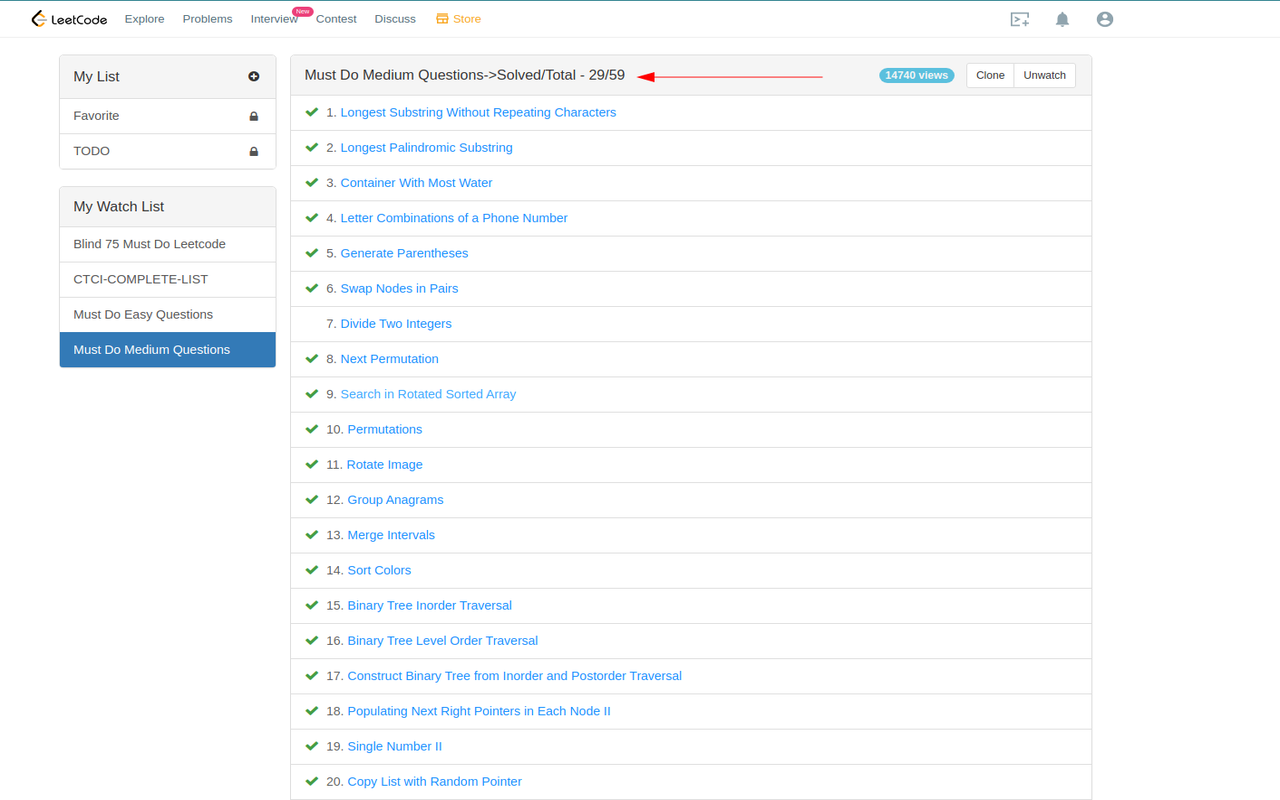
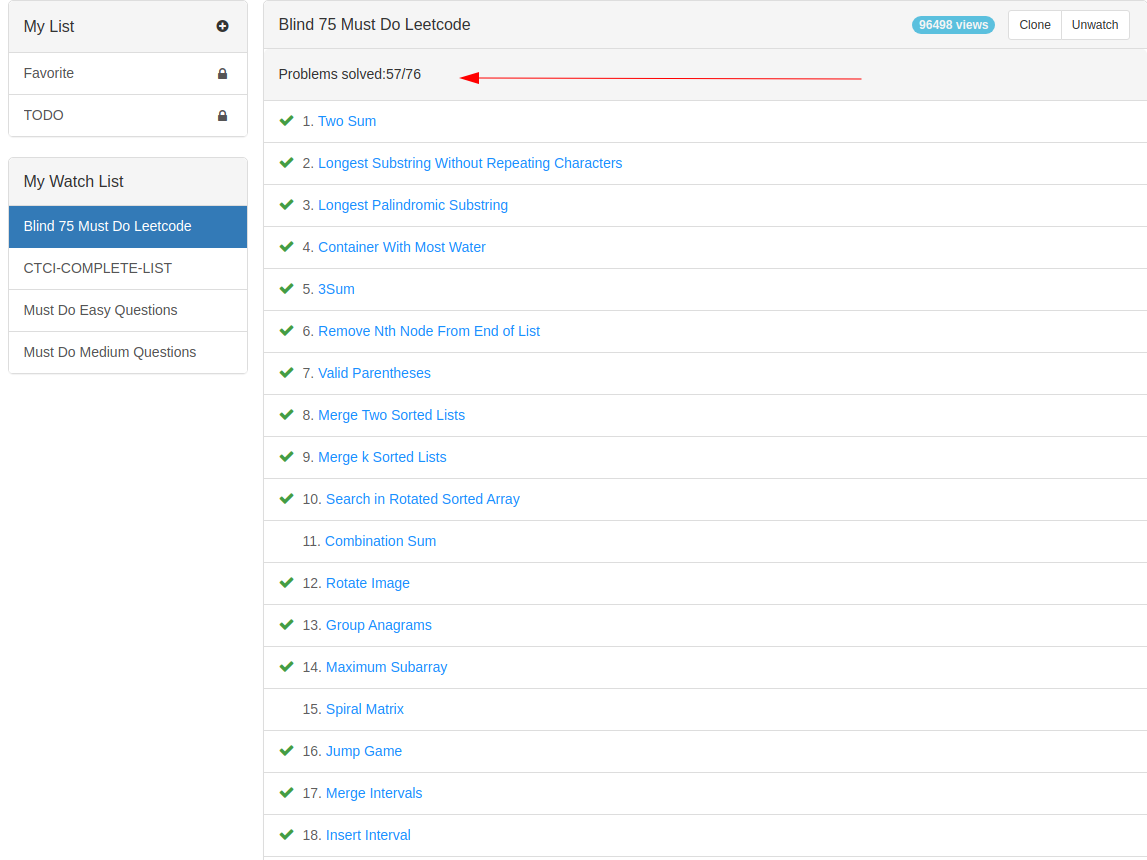
update design

diff --git a/background.js b/background.js
@@ -8,10 +8,13 @@ document.addEventListener('DOMContentLoaded', function () {
           code: `
           var totalProblems = document.getElementsByClassName('css-alevek').length;
           var solvedProblems = document.getElementsByClassName('text-success fa fa-check css-alevek').length;
-          if(document.getElementsByClassName("list-name-header-shared").length>0) {
-            var text = document.getElementsByClassName("list-name-header-shared")[0].innerText;
-            document.getElementsByClassName("list-name-header-shared")[0].innerText=text +"->Solved/Total - "+solvedProblems+"/"+totalProblems;
-          }
+
+          var el = document.createElement('div');
+          el.setAttribute('class', 'panel-heading');
+          el.setAttribute('id', 'leetcode-stat-extension-id')
+          el.innerText="Problems solved:"+solvedProblems+"/"+totalProblems;
+          
+          document.getElementsByClassName("panel-heading")[2].parentNode.insertBefore(el, document.getElementsByClassName("panel-heading")[2].nextSibling);
           `
         }
       );
@@ -25,11 +28,10 @@ document.addEventListener('DOMContentLoaded', function () {
         tabId,
         {
           code: `
-          if(document.getElementsByClassName("list-name-header-shared").length>0) {
-            var text = document.getElementsByClassName("list-name-header-shared")[0].innerText;
-            var splitted = text.split("->Solved/Total - ");
-            document.getElementsByClassName("list-name-header-shared")[0].innerText=splitted[0]; 
-          } 
+          var el = document.getElementById("leetcode-stat-extension-id");
+          if(el) {
+            el.parentNode.removeChild(el)
+          }
           `
         }
       );
@@ -39,10 +41,14 @@ document.addEventListener('DOMContentLoaded', function () {
           code: `
           var totalProblems = document.getElementsByClassName('css-alevek').length;
           var solvedProblems = document.getElementsByClassName('text-success fa fa-check css-alevek').length;
-          if(document.getElementsByClassName("list-name-header-shared").length>0) {
-            var text = document.getElementsByClassName("list-name-header-shared")[0].innerText;
-            document.getElementsByClassName("list-name-header-shared")[0].innerText=text +"->Solved/Total - "+solvedProblems+"/"+totalProblems;
-          }
+
+          var el = document.createElement('div');
+          el.setAttribute('class', 'panel-heading');
+          el.setAttribute('id', 'leetcode-stat-extension-id')
+          el.innerText="Problems solved:"+solvedProblems+"/"+totalProblems;
+          
+          document.getElementsByClassName("panel-heading")[2].parentNode.insertBefore(el, document.getElementsByClassName("panel-heading")[2].nextSibling);
+
           `
         }
       );

diff --git a/popup.html b/popup.html
@@ -1,0 +1,10 @@
+<!DOCTYPE html>
+<html>
+<head>
+   <meta charset="utf-8">
+</head>
+<body>
+<div style="width:180px;">Leetcode List Stats by nurgasemetey
+<br><a href="https://github.com/nurgasemetey/leetcode-list-stats" target="_blank">GitHub</a></div>
+</body>
+</html>
